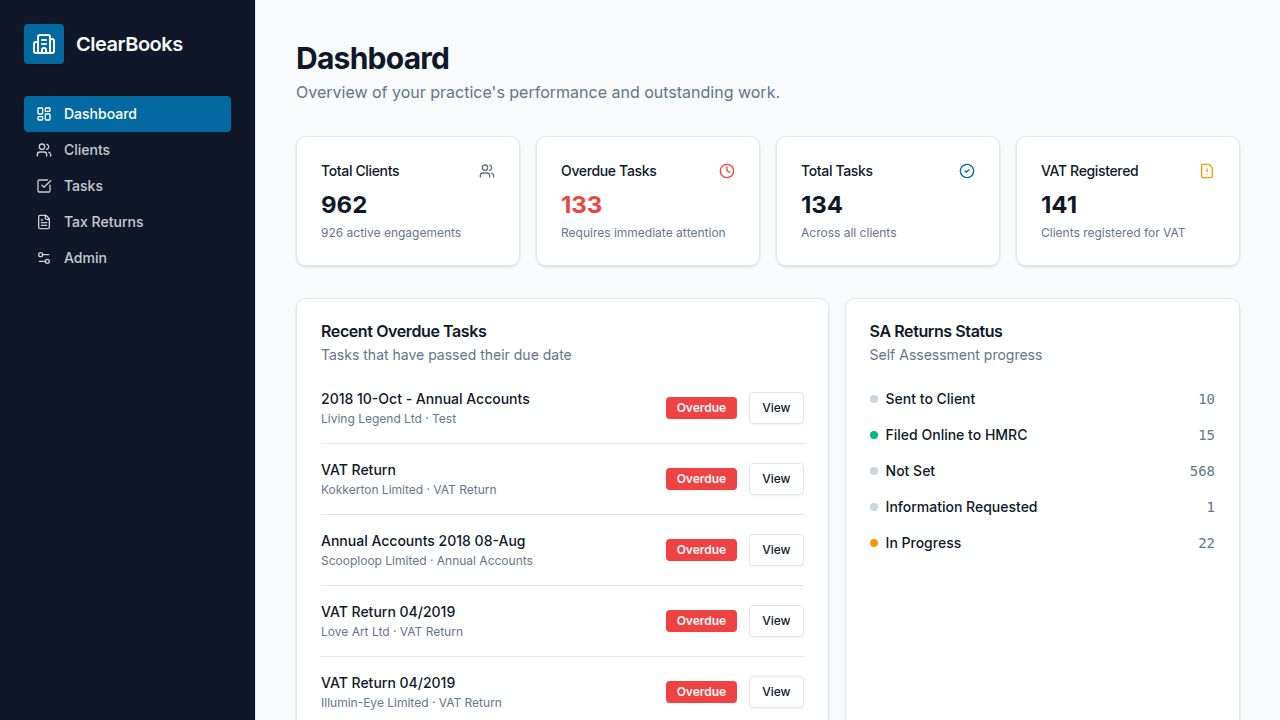
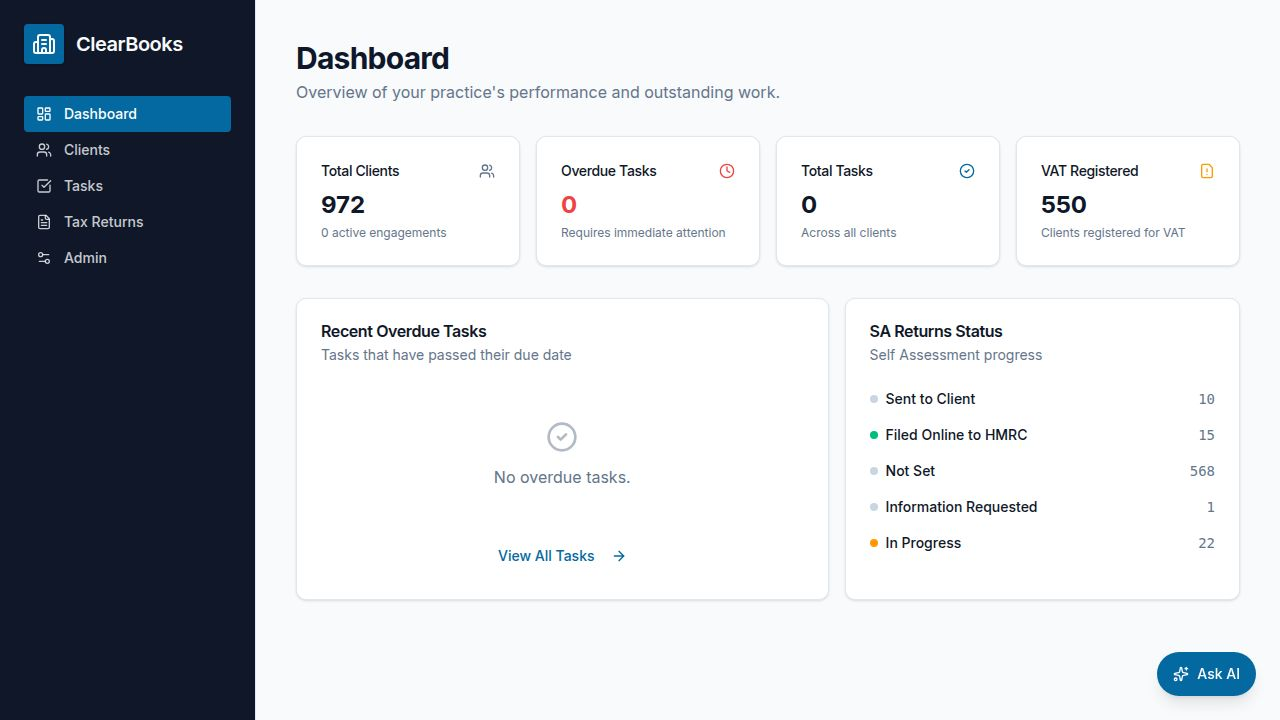
Make file imports run in the background
Implement asynchronous handling for file imports, allowing the server to process large files without timing out, and provide real-time status updates to the user interface.

Replit-Commit-Author: Agent
Replit-Commit-Session-Id: 1e17a65f-bc64-4707-8b4d-5859f2cfede2
Replit-Commit-Checkpoint-Type: full_checkpoint
Replit-Commit-Event-Id: a0a3a5ba-a964-4c53-8afc-db4e180bed92
Replit-Commit-Screenshot-Url: https://storage.googleapis.com/screenshot-production-us-central1/ebef95e4-8c09-4be0-adab-de3f9282819f/1e17a65f-bc64-4707-8b4d-5859f2cfede2/puImET6
Replit-Helium-Checkpoint-Created: true

diff --git a/artifacts/accountant-portal/src/pages/admin.tsx b/artifacts/accountant-portal/src/pages/admin.tsx
@@ -14,11 +14,12 @@ import {
   getListDropdownOptionsQueryKey,
   useImportPreview,
   useImportRun,
+  useImportStatus,
   useImportHistory,
   getImportHistoryQueryKey,
 } from "@workspace/api-client-react";
 import { useQueryClient } from "@tanstack/react-query";
-import type { ImportPreview, ImportResult, ImportBatch } from "@workspace/api-client-react";
+import type { ImportPreview, ImportBatch } from "@workspace/api-client-react";
 import { format } from "date-fns";
 
 const CATEGORIES = [
@@ -145,12 +146,14 @@ function CategoryPanel({ category, description }: { category: string; descriptio
   );
 }
 
+const DONE_STATUSES = new Set(["success", "partial", "error"]);
+
 function ImportPanel() {
   const qc = useQueryClient();
   const fileRef = useRef<HTMLInputElement>(null);
   const [selectedFile, setSelectedFile] = useState<File | null>(null);
   const [preview, setPreview] = useState<ImportPreview | null>(null);
-  const [result, setResult] = useState<ImportResult | null>(null);
+  const [pendingBatchId, setPendingBatchId] = useState<number | null>(null);
   const [dragging, setDragging] = useState(false);
 
   const previewMutation = useImportPreview();
@@ -158,10 +161,37 @@ function ImportPanel() {
   const { data: historyData, isLoading: historyLoading } = useImportHistory();
   const batches: ImportBatch[] = historyData?.batches ?? [];
 
+  // Poll the batch status while an import is running
+  const { data: batchStatus } = useImportStatus(pendingBatchId ?? 0, {
+    query: {
+      enabled: !!pendingBatchId,
+      refetchInterval: 2000,
+    } as any,
+  });
+
+  // When the batch finishes, refresh history and clear the pending ID
+  React.useEffect(() => {
+    if (!batchStatus) return;
+    if (DONE_STATUSES.has(batchStatus.status ?? "")) {
+      qc.invalidateQueries({ queryKey: getImportHistoryQueryKey() });
+      setPendingBatchId(null);
+      if (batchStatus.status === "success") {
+        toast.success(
+          `Import complete — ${batchStatus.clientsAdded ?? 0} added, ${batchStatus.clientsUpdated ?? 0} updated, ${batchStatus.clientsRemoved ?? 0} removed`
+        );
+      } else if (batchStatus.status === "partial") {
+        toast.warning("Import completed with some errors — see history below");
+      } else {
+        toast.error(batchStatus.errorMessage ?? "Import failed");
+      }
+    }
+  }, [batchStatus?.status]);
+
+  const isRunning = !!pendingBatchId;
+
   const handleFileSelect = (file: File | null) => {
     setSelectedFile(file);
     setPreview(null);
-    setResult(null);
   };
 
   const handleDrop = (e: React.DragEvent) => {
@@ -174,7 +204,6 @@ function ImportPanel() {
 
   const handlePreview = async () => {
     if (!selectedFile) return;
-    setResult(null);
     try {
       const data = await previewMutation.mutateAsync({ data: { file: selectedFile as any } });
       setPreview(data);
@@ -187,14 +216,9 @@ function ImportPanel() {
     if (!selectedFile) return;
     try {
       const data = await runMutation.mutateAsync({ data: { file: selectedFile as any } });
-      setResult(data);
       setPreview(null);
-      qc.invalidateQueries({ queryKey: getImportHistoryQueryKey() });
-      if (data.errors && data.errors.length > 0) {
-        toast.warning(`Import completed with ${data.errors.length} error(s)`);
-      } else {
-        toast.success(`Import complete — ${data.clientsAdded ?? 0} added, ${data.clientsUpdated ?? 0} updated, ${data.clientsRemoved ?? 0} removed`);
-      }
+      setPendingBatchId(data.batchId);
+      toast.info("Import started — this may take a few minutes…");
     } catch (err: any) {
       toast.error(err?.response?.data?.error ?? "Import failed");
     }
@@ -204,6 +228,8 @@ function ImportPanel() {
     success: "bg-emerald-100 text-emerald-700 border-emerald-200",
     partial: "bg-amber-100 text-amber-700 border-amber-200",
     error: "bg-red-100 text-red-700 border-red-200",
+    running: "bg-blue-100 text-blue-700 border-blue-200",
+    pending: "bg-gray-100 text-gray-700 border-gray-200",
   };
 
   return (
@@ -263,11 +289,11 @@ function ImportPanel() {
               </Button>
               <Button
                 onClick={handleRun}
-                disabled={runMutation.isPending}
+                disabled={runMutation.isPending || isRunning}
                 className="flex-1"
               >
-                {runMutation.isPending ? <Loader2 className="h-4 w-4 mr-2 animate-spin" /> : <Upload className="h-4 w-4 mr-2" />}
-                Run Import
+                {(runMutation.isPending || isRunning) ? <Loader2 className="h-4 w-4 mr-2 animate-spin" /> : <Upload className="h-4 w-4 mr-2" />}
+                {isRunning ? "Importing…" : "Run Import"}
               </Button>
             </div>
           )}
@@ -332,42 +358,22 @@ function ImportPanel() {
         </Card>
       )}
 
-      {/* Import result */}
-      {result && (
+      {/* Running progress indicator */}
+      {isRunning && (
         <Card>
           <CardHeader>
             <CardTitle className="text-base flex items-center gap-2">
-              {result.errors && result.errors.length > 0
-                ? <AlertCircle className="h-5 w-5 text-amber-500" />
-                : <CheckCircle2 className="h-5 w-5 text-emerald-500" />}
-              Import {result.errors && result.errors.length > 0 ? "Completed with Warnings" : "Successful"}
+              <Loader2 className="h-5 w-5 animate-spin text-blue-500" />
+              Import in Progress
             </CardTitle>
+            <CardDescription>
+              Processing your TaxCalc export — this typically takes 2–5 minutes. You can navigate away and come back; the import will continue in the background.
+            </CardDescription>
           </CardHeader>
           <CardContent>
-            <div className="grid grid-cols-3 gap-4 mb-4">
-              <div className="text-center">
-                <p className="text-xl font-bold text-emerald-600">+{result.clientsAdded ?? 0}</p>
-                <p className="text-xs text-muted-foreground">Added</p>
-              </div>
-              <div className="text-center">
-                <p className="text-xl font-bold text-blue-600">~{result.clientsUpdated ?? 0}</p>
-                <p className="text-xs text-muted-foreground">Updated</p>
-              </div>
-              <div className="text-center">
-                <p className="text-xl font-bold text-amber-600">-{result.clientsRemoved ?? 0}</p>
-                <p className="text-xs text-muted-foreground">Removed</p>
-              </div>
+            <div className="text-sm text-muted-foreground">
+              Status: <span className="font-medium text-foreground">{batchStatus?.status ?? "pending"}</span>
             </div>
-            {result.errors && result.errors.length > 0 && (
-              <div className="rounded-md border border-amber-200 bg-amber-50 p-3">
-                <p className="text-sm font-medium text-amber-800">Row-level errors ({result.errors.length}):</p>
-                <ul className="mt-2 space-y-1">
-                  {result.errors.slice(0, 10).map((e, i) => (
-                    <li key={i} className="text-xs text-amber-700 font-mono">{e}</li>
-                  ))}
-                </ul>
-              </div>
-            )}
           </CardContent>
         </Card>
       )}

diff --git a/artifacts/api-server/src/routes/import.ts b/artifacts/api-server/src/routes/import.ts
@@ -4,7 +4,8 @@ import { parseTaxCalcZip } from "../lib/taxcalc-parser.js";
 import { previewImport, runImport } from "../lib/taxcalc-importer.js";
 import { db } from "@workspace/db";
 import { importBatchesTable } from "@workspace/db";
-import { desc } from "drizzle-orm";
+import { desc, eq } from "drizzle-orm";
+import { logger } from "../lib/logger.js";
 
 const router = Router();
 const upload = multer({ storage: multer.memoryStorage(), limits: { fileSize: 100 * 1024 * 1024 } });
@@ -35,21 +36,81 @@ router.post("/run", upload.single("file"), async (req, res) => {
     if (!req.file) {
       return res.status(400).json({ error: "No file uploaded" });
     }
+
+    // Parse synchronously — this is fast (in-memory XLS parsing)
     const parseResult = parseTaxCalcZip(req.file.buffer);
     if (parseResult.errors.length > 0 && parseResult.clients.size === 0) {
       return res.status(400).json({ error: "Failed to parse file", details: parseResult.errors });
     }
-    const result = await runImport(parseResult.clients, {
-      importedBy: (req.body?.importedBy as string) ?? "admin",
-      filename: req.file.originalname,
-    });
-    return res.json({
-      success: true,
-      ...result,
-      parseErrors: parseResult.errors,
-    });
+
+    const filename = req.file.originalname;
+    const importedBy = (req.body?.importedBy as string) ?? "admin";
+
+    // Insert a pending batch record immediately so the client has an ID to poll
+    const [batch] = await db
+      .insert(importBatchesTable)
+      .values({ filename, importedBy, status: "pending" })
+      .returning({ id: importBatchesTable.id });
+
+    // Return the batch ID right away — well within the proxy timeout
+    res.status(202).json({ batchId: batch.id });
+
+    // Run the actual import in the background after the response is sent
+    const clients = parseResult.clients;
+    void (async () => {
+      try {
+        await db
+          .update(importBatchesTable)
+          .set({ status: "running" })
+          .where(eq(importBatchesTable.id, batch.id));
+
+        const result = await runImport(clients, { importedBy, filename });
+
+        await db
+          .update(importBatchesTable)
+          .set({
+            status: result.errors.length > 0 ? "partial" : "success",
+            totalClients: (result.clientsAdded ?? 0) + (result.clientsUpdated ?? 0),
+            clientsAdded: result.clientsAdded ?? 0,
+            clientsUpdated: result.clientsUpdated ?? 0,
+            clientsRemoved: result.clientsRemoved ?? 0,
+            saReturnsCount: result.saReturnsCount ?? 0,
+            ctReturnsCount: result.ctReturnsCount ?? 0,
+            accountsPeriodsCount: result.accountsPeriodsCount ?? 0,
+            errorMessage: result.errors.length > 0 ? result.errors.slice(0, 5).join("; ") : null,
+          })
+          .where(eq(importBatchesTable.id, batch.id));
+
+        logger.info({ batchId: batch.id, ...result }, "Background import completed");
+      } catch (err) {
+        logger.error({ err, batchId: batch.id }, "Background import failed");
+        await db
+          .update(importBatchesTable)
+          .set({ status: "error", errorMessage: String(err) })
+          .where(eq(importBatchesTable.id, batch.id))
+          .catch(() => {});
+      }
+    })();
+    return;
   } catch (err) {
     req.log.error({ err }, "Import run failed");
+    return res.status(500).json({ error: "Internal server error" });
+  }
+});
+
+router.get("/status/:id", async (req, res) => {
+  try {
+    const id = parseInt(req.params.id, 10);
+    if (isNaN(id)) return res.status(400).json({ error: "Invalid id" });
+    const [batch] = await db
+      .select()
+      .from(importBatchesTable)
+      .where(eq(importBatchesTable.id, id))
+      .limit(1);
+    if (!batch) return res.status(404).json({ error: "Batch not found" });
+    return res.json(batch);
+  } catch (err) {
+    req.log.error({ err }, "Import status fetch failed");
     return res.status(500).json({ error: "Internal server error" });
   }
 });